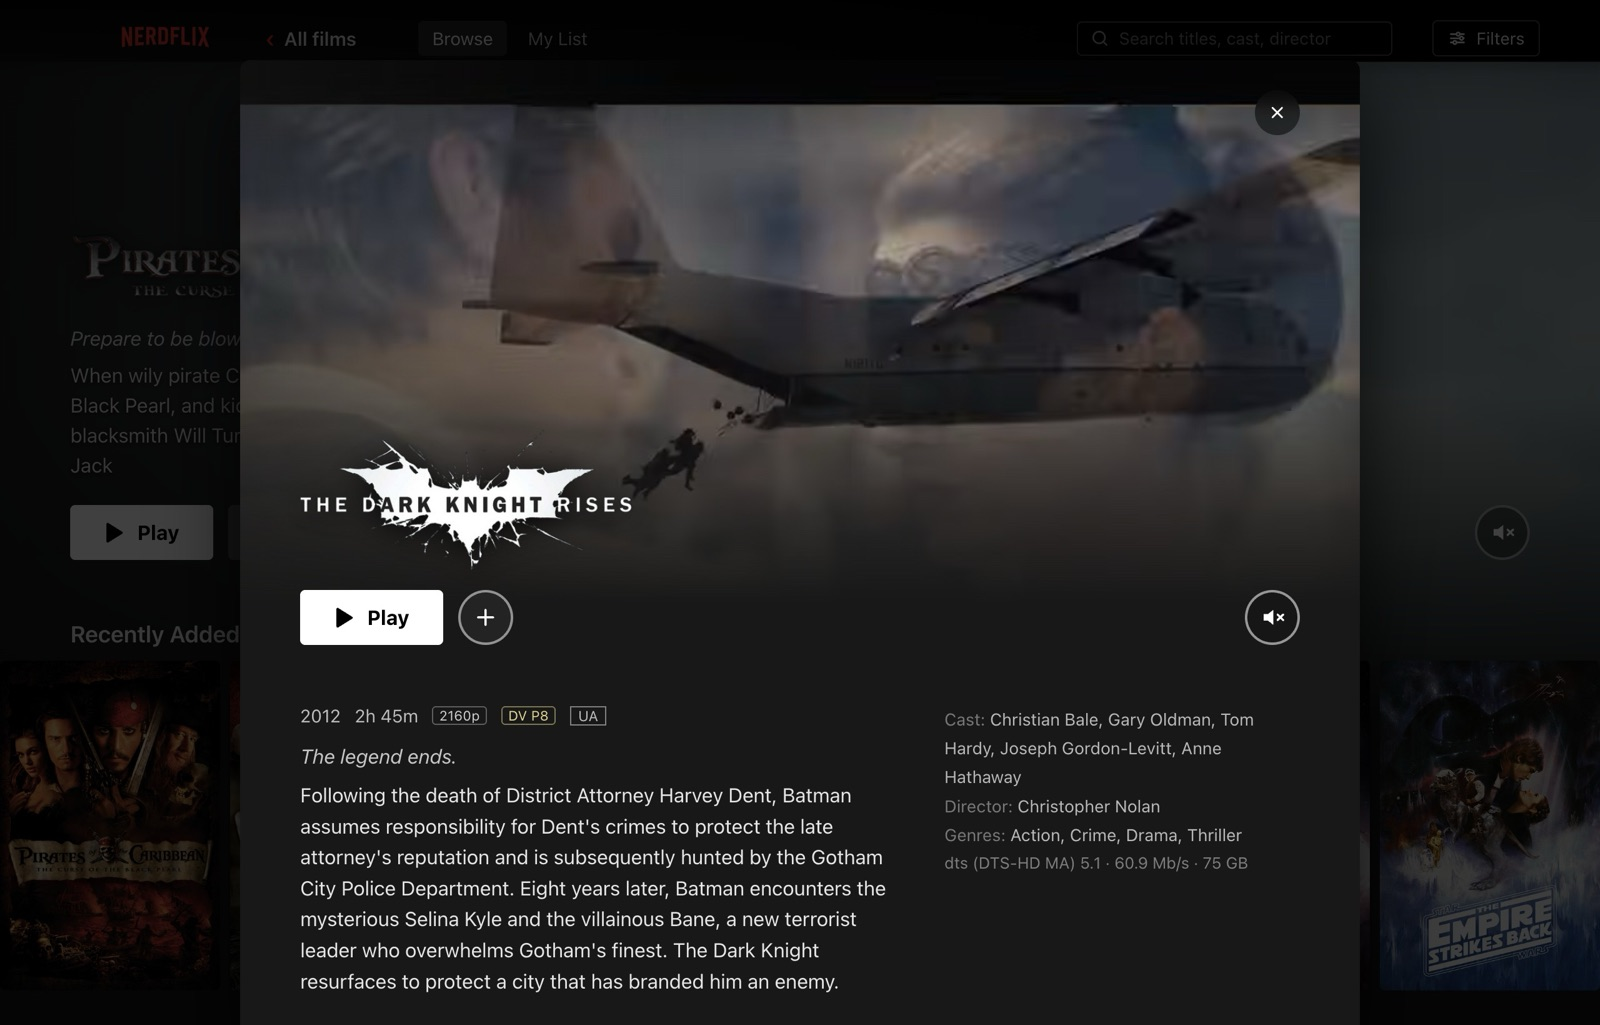
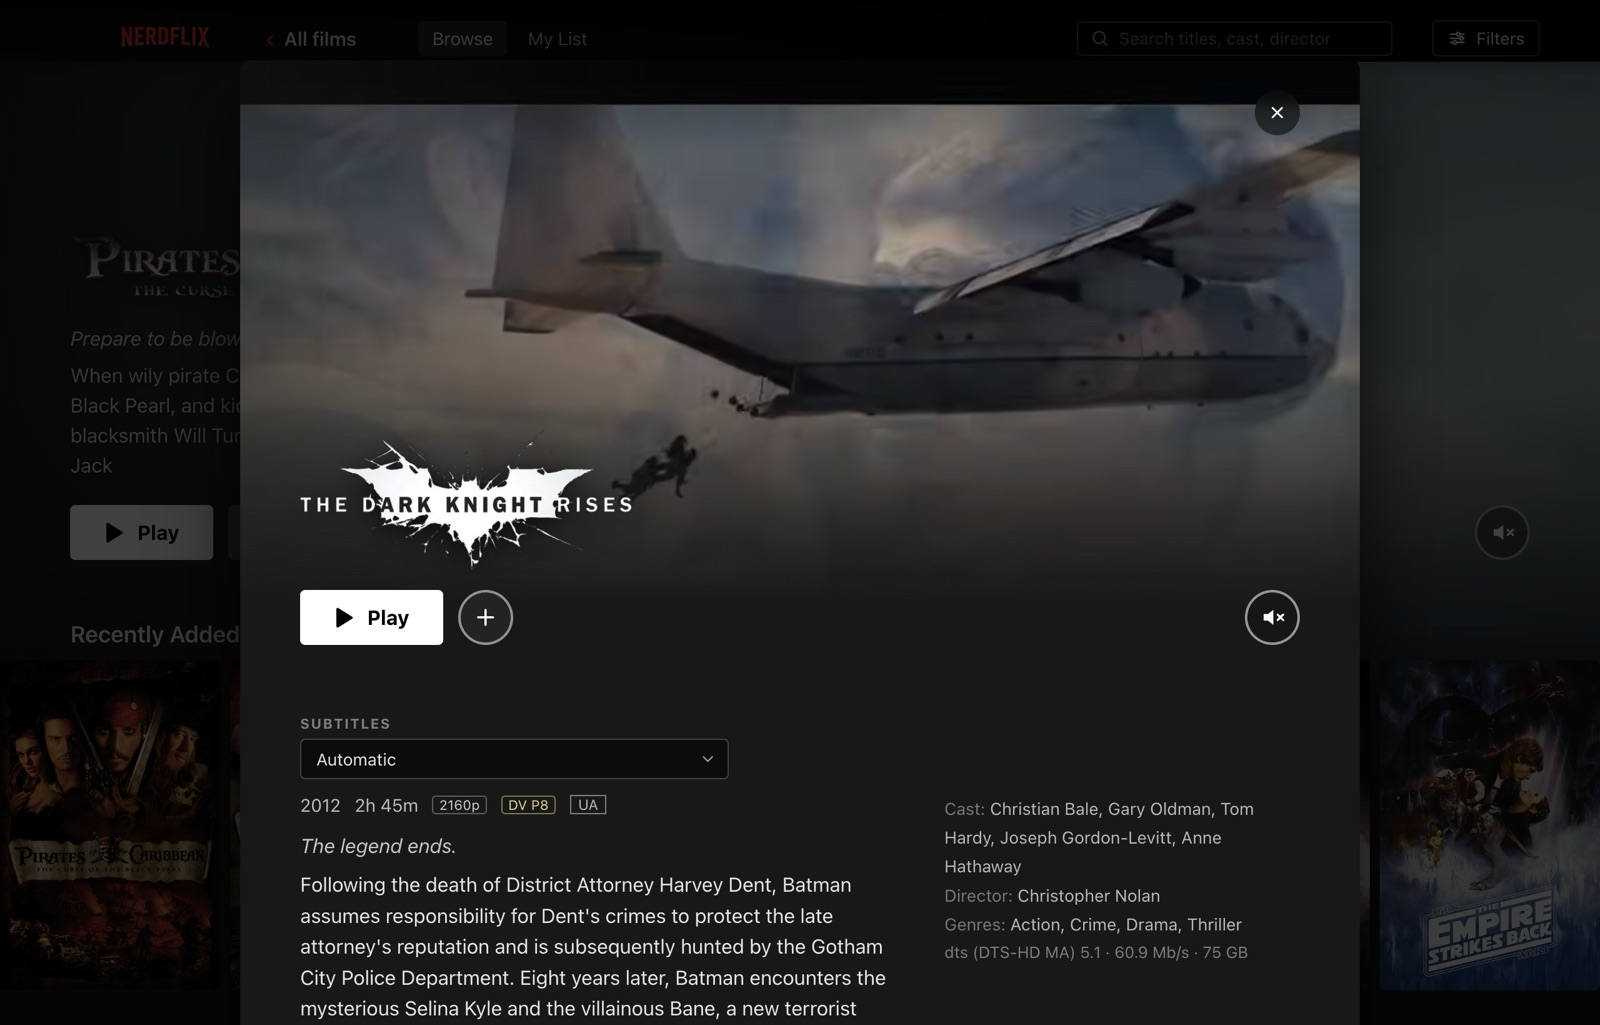
README: the track picker is built, not pending
Adds it to the feature list and the screenshot table, and removes it from
"Not built", where it was now simply false.

The screenshot script gains a ninth shot for it. That shot opens the first
film in Recently Added that actually offers a choice rather than naming a
title, because a single-track file shows no picker at all and a fixed name
would quietly capture an empty dialog on any library but this one. It also
selects a commentary before capturing: a closed select reading "Automatic"
says nothing about why the picker exists, and the open menu is drawn by
macOS rather than the page, so it cannot be captured at all.

Folds the probe-version lesson into the existing section on backfilling,
since it is the same shape from the other direction — a cache key meaning
"the input is unchanged" is not a licence to skip recomputing the output.

Test count to 290.

diff --git a/README.md b/README.md
@@ -6,7 +6,7 @@
 
 Browse your library like a streaming service. Play it like an audiophile.
 
-`macOS 14+` · `Apple Silicon` · `Electron + React + TypeScript` · `mpv / IINA` · `267 tests`
+`macOS 14+` · `Apple Silicon` · `Electron + React + TypeScript` · `mpv / IINA` · `290 tests`
 
 </div>
 
@@ -36,6 +36,9 @@ re-encoded, and nothing is ever written to your drives.**
 - **Sorts and filters** by title, year, runtime, file size, genre, resolution, HDR,
   unwatched and availability.
 - **Searches** across title, year, genre, director and cast.
+- **Picks the audio and subtitle track before the film starts**, with commentaries
+  labelled, so a disc with four audio mixes and forty-seven subtitle tracks opens on the
+  one you wanted. The choice is remembered per film.
 - **Plays through mpv or IINA** with HDR passthrough, hardware decode and quality that
   adapts to your machine in both directions — then reports what actually happened rather
   than what was requested.
@@ -52,6 +55,7 @@ re-encoded, and nothing is ever written to your drives.**
 | **Detail view.** Logo, resume progress, technical truth about the file: real resolution, real HDR format, real audio layout and bitrate — all read from the stream. | ![Detail](docs/screenshots/06-detail.jpg) |
 | **Sort and filter.** Facets come from your library, not a fixed list — a filter that cannot change the result is never offered, so nothing you press does nothing. | ![Filters](docs/screenshots/07-filters.jpg) |
 | **Results are a grid.** Searching, filtering or sorting collapses the shelves into one ordered set, because the size of the answer is the point. | ![Results grid](docs/screenshots/08-results-grid.jpg) |
+| **Choose the track before you start.** A remux carries the feature mix, commentaries and dozens of subtitle tracks. Pick them here rather than hunting through a player menu while the opening plays. | ![Track picker](docs/screenshots/09-track-picker.jpg) |
 | **Your drives, as they are.** Per-drive cards plus a combined view whose counts are deduplicated — the same film on two drives is one film, not two. | ![Library picker](docs/screenshots/01-library-picker.jpg) |
 
 ---
@@ -238,6 +242,18 @@ agreed with the gate inside the function they called — so the first backfill r
 "3 of 14 titles", and did nothing at all. A caller-side filter that disagrees with the
 callee's gate is how a migration silently no-ops.
 
+The same shape turned up again, from the other direction, when the track picker needed
+two fields ffprobe had never been asked for. Files are identified by a hash of their
+content, and the rescan path used that to answer a second question it was never asked:
+*do we already know everything about this file?* The bytes had not changed, so every
+stored record was skipped and the rescan meant to collect the new fields reported all
+fourteen "unchanged".
+
+A version stamp on each record fixes it, and the re-probe is free — ffprobe has already
+run, because the content hash needs the duration. **A cache key that means "the input
+is unchanged" is not a licence to skip recomputing the output**, because the code doing
+the deriving changes too. Twice now.
+
 ### One trailer player, moved rather than remounted
 
 Hovering a card plays the film's trailer where the artwork was, it keeps playing when
@@ -350,7 +366,7 @@ pnpm scan <path>          # scan a library root and print a report
 pnpm enrich               # TMDB metadata and artwork
 pnpm library [--review]   # list titles, availability, match warnings
 pnpm play <file>          # play with a terminal scrubber and live diagnostics
-pnpm test                 # 267 tests
+pnpm test                 # 290 tests
 pnpm typecheck
 ```
 
@@ -364,7 +380,7 @@ pnpm screenshots          # terminal 2 — writes docs/screenshots/
 
 ## Testing
 
-**267 tests**, run against real files and real behaviour rather than mocks — several
+**290 tests**, run against real files and real behaviour rather than mocks — several
 bugs here were only reproducible with genuine 4K HEVC and actual drive behaviour.
 
 The discovery tests build real directory trees in a temp dir and scan them, including
@@ -378,8 +394,6 @@ because a regression test that passes either way is worth nothing.
 
 Deliberately deferred, in rough priority order:
 
-- **An audio and subtitle track picker.** The engine already exposes track switching;
-  nothing in the UI reaches it yet.
 - **TV shows.** The schema has a place for them; the scanner is films-only.
 - **Scrub-preview thumbnails** — needs the `thumbfast` pattern (a second hidden mpv
   instance). A pre-generated sprite sheet is impossible on an 80 GB file.
